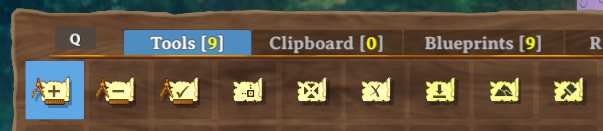
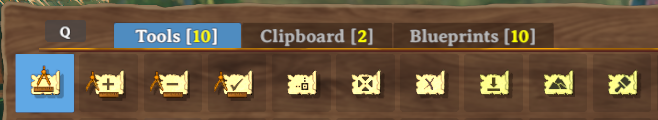
keyhints and localization, docs

diff --git a/PlanBuild/Blueprints/BlueprintAssets.cs b/PlanBuild/Blueprints/BlueprintAssets.cs
@@ -181,6 +181,21 @@ namespace PlanBuild.Blueprints
                     new ButtonConfig { Name = "BuildMenu", HintToken = "$hud_buildmenu" }
                 }
             });
+            
+            // Capture
+
+            KeyHintManager.Instance.AddKeyHint(new KeyHintConfig
+            {
+                Item = BlueprintRuneName,
+                Piece = PieceCaptureName,
+                ButtonConfigs = new[]
+                {
+                    new ButtonConfig { Name = "Attack", HintToken = "$hud_bpcapture" },
+                    new ButtonConfig { Name = Config.CtrlModifierButton.Name, Config = Config.CtrlModifierConfig, HintToken = "$hud_bpcapture_highlight" },
+                    new ButtonConfig { Name = Config.ShiftModifierButton.Name, Config = Config.ShiftModifierConfig, HintToken = "$hud_bpcamera" },
+                    new ButtonConfig { Name = "Scroll", Axis = "Mouse ScrollWheel", HintToken = "$hud_bpradius" }
+                }
+            });
 
             // Add selection
 

diff --git a/README.md b/README.md
@@ -1,4 +1,5 @@
-# BIG REVAMP
+
+# BIG REVAMP
 
 Version 0.10.0 of PlanBuild comes with a big internal code refactor and many changes to the handling of plans and blueprints. Please make sure to check out the documentation below. The biggest changes in a nutshell:
 
@@ -61,6 +62,11 @@ Copy existing structures into __Blueprints__ and rebuild them as planned or regu
 ![Blueprint tools](https://raw.githubusercontent.com/sirskunkalot/PlanBuild/master/PlanBuild/resources/BlueprintTools.png)
 
 The Blueprint Rune comes with a handful of tools to handle blueprint creation and terraforming. 
+
+* __Create new Blueprint__: Directly create a blueprint from a selection indicated by the circle marker.
+  * Hold __Ctrl__ to highlight all pieces which will be saved into the blueprint
+  * Use the __Scroll Wheel__ to change the selection radius
+  * Use __Shift + Scroll__ to adjust the camera distance.
 
 * __Add to selection__: Add pieces to the current selection. Currently selected pieces will be highlighted in green. Per default only the hovered piece will be added to the selection. You can use various modifiers to change that behaviour.
   * Press __Q__ to quickly switch to the "Remove from selection" tool

diff --git a/CHANGELOG.md b/CHANGELOG.md
@@ -1,6 +1,7 @@
 # Version 0.10.1
 * Added stripping of Semicolons on "additionalText" to prevent CSV errors
 * Added unlimited health to other types of prefabs (Trees, Destructibles)
+* Added back "quick select tool" for direct blueprinting
 
 # Version 0.10.0
 * Split plan and blueprint functionality into two separate items
